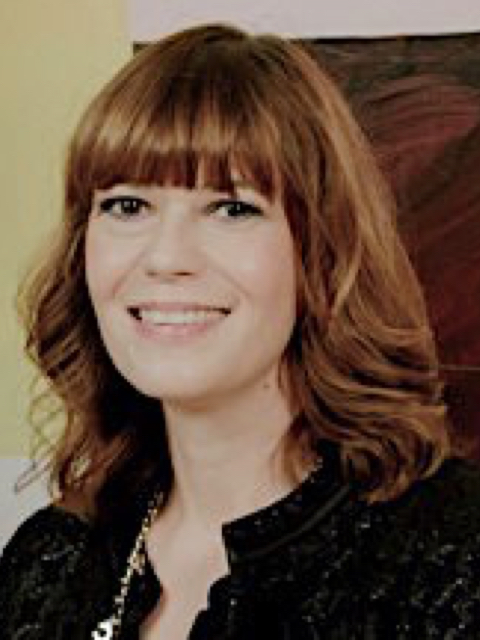
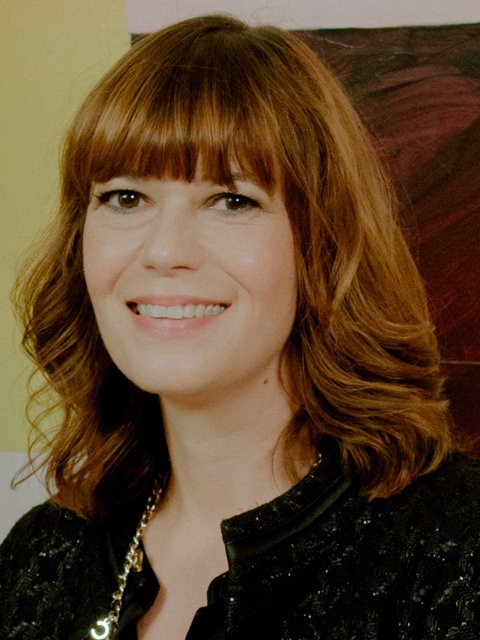
Multiple edits, added special deal

diff --git a/src/pages/2019/newyorkmetro.vue b/src/pages/2019/newyorkmetro.vue
@@ -12,7 +12,22 @@
                 </div>
 
                 <div class="col-auto pb-3">
-                  <a class="btn btn-danger px-4" role="button" :href="event.registerLink" target="_blank">Register Now</a>
+                  <div class="btn-group" role="group">
+
+                    <div class="btn-group" :class="isSpecialShown ? 'show' : ''" role="group">
+                      <button type="button" class="btn btn-primary dropdown-toggle" data-toggle="dropdown" @click="isSpecialShown = !isSpecialShown">
+                        Special Deal
+                      </button>
+
+                      <div class="dropdown-menu dropdown-menu-right p-4" :class="isSpecialShown ? 'show' : ''">
+                        <div style="width: 200px;">
+                          <a href="https://bit.ly/31bXISe" target="_blank">AgileCamp New York Metro Admission + 2-Day Certified Scrum Master Course</a>
+                        </div>
+                      </div>
+                    </div>
+
+                    <a class="btn btn-danger px-4" role="button" :href="event.registerLink" target="_blank">Register Now</a>
+                  </div>
                 </div>
               </div>
             </div>
@@ -46,6 +61,11 @@
                 The New York Metropolitan area is an unforgettable place comprised of endless iconic attractions.
                 There’s no shortage of restaurants, events, and things to do in the area, which is why we are thrilled to host AgileCamp in this region.
                 The conference is set right on the water at the Hyatt Regency Center in Jersey City, providing a stunning view New York City skyline.
+              </p>
+              <p class="lead">
+                With our Keynote Speakers announced, we are curating an awesome program for you.
+                Our full program will be announced mid-August.
+                Meanwhile, register by September 4th to take advantage of early-bird discounts for both individuals and groups!
               </p>
             </div>
           </div>
@@ -145,7 +165,9 @@ export default {
   data () {
     return {
       // Event data
-      event: process.env.events.year2019.newYorkMetro
+      event: process.env.events.year2019.newYorkMetro,
+
+      isSpecialShown: false
     }
   },
 

diff --git a/src/pages/2019/portland.vue b/src/pages/2019/portland.vue
@@ -46,6 +46,11 @@
                 Portland is a wonderfully eccentric city known for its unique and innovative take on craft beer, coffee, and artisanal foods.
                 This eclectic, creative hub is the perfect location for AgileCamp which will be held at the Nike Headquarters.
               </p>
+              <p class="lead">
+                With our Keynote Speakers announced, we are curating an awesome program for you.
+                Our full program has been announced.
+                Meanwhile, register by August 20th to take advantage of early-bird discounts for both individuals and&nbsp;groups!
+              </p>
             </div>
           </div>
         </section>
@@ -76,7 +81,7 @@
 
         <div class="row" v-if="event.schedId">
           <div class="col-12">
-            <sched-embed class="py-2" page="/directory/sponsors" :sched-id="event.schedId" />
+            <sched-embed class="py-2" page="/" :sched-id="event.schedId" />
           </div>
         </div>
 

diff --git a/src/components/Sponsors2019.vue b/src/components/Sponsors2019.vue
@@ -12,7 +12,7 @@
       <propeller />
       <improving />
       <scrum-org />
-      <certiprof />
+      <slalom />
     </div>
 
     <div class="row justify-content-center">
@@ -20,6 +20,7 @@
       <matrix />
       <eliassen-group />
       <objective-group />
+      <certiprof />
       <i-c-a />
     </div>
   </div>
@@ -39,6 +40,7 @@ import ObjectiveGroup from '@/components/sponsors/ObjectiveGroup'
 import Propeller from '@/components/sponsors/Propeller'
 import ScrumAlliance from '@/components/sponsors/ScrumAlliance'
 import ScrumOrg from '@/components/sponsors/ScrumOrg'
+import Slalom from '@/components/sponsors/Slalom'
 import ToyotaConnected from '@/components/sponsors/ToyotaConnected'
 
 export default {
@@ -56,6 +58,7 @@ export default {
     Propeller,
     ScrumAlliance,
     ScrumOrg,
+    Slalom,
     ToyotaConnected
   }
 }

diff --git a/src/components/speakers/NicolaDourambeis.vue b/src/components/speakers/NicolaDourambeis.vue
@@ -2,7 +2,7 @@
   <div class="row py-2" :class="textClass" id="speakerNicolaDourambeis">
     <div class="col-12 col-md-3">
       <div class="img-wrap-ac-speaker-port m-auto">
-        <img class="img-fluid img-brighten-110" src="~assets/images/speaker-nicola-dourambeis-port.jpg" alt="Nicola Dourambeis">
+        <img class="img-fluid img-brighten-120" src="~assets/images/speaker-nicola-dourambeis-port.jpg" alt="Nicola Dourambeis">
       </div>
     </div>
     <div class="col-12 col-md-9 mt-2 text-center text-md-left">

diff --git a/src/pages/2019/sanfrancisco.vue b/src/pages/2019/sanfrancisco.vue
@@ -61,6 +61,7 @@
         </div>
 
         <jurgen-appello />
+        <dave-snowden />
       </section>
     </div>
 
@@ -156,6 +157,7 @@ import GoogleMap from '@/components/GoogleMap'
 import SchedEmbed from '@/components/SchedEmbed'
 
 // Speakers
+import DaveSnowden from '@/components/speakers/DaveSnowden'
 import JurgenAppello from '@/components/speakers/JurgenAppello'
 
 // Travel
@@ -171,6 +173,7 @@ export default {
     SchedEmbed,
 
     // Speakers
+    DaveSnowden,
     JurgenAppello,
 
     // Travel

diff --git a/nuxt.config.js b/nuxt.config.js
@@ -55,6 +55,7 @@ module.exports = {
           placeId: 'ChIJMUNSg6lQwokRBO-vrsLMopg',
           placeName: 'Hyatt Regency Jersey City',
           registerLink: 'https://www.eventbrite.com/e/agile-agilecamp-new-york-metropolitan-2019-tickets-55102498055',
+          schedId: 'agilecampnewyorkmetro2019.sched.com',
           travelDocLink: 'https://www.hyatt.com/en-US/hotel/new-jersey/hyatt-regency-jersey-city-on-the-hudson/newjp/maps-parking-transportation'
         },
         portland: {
